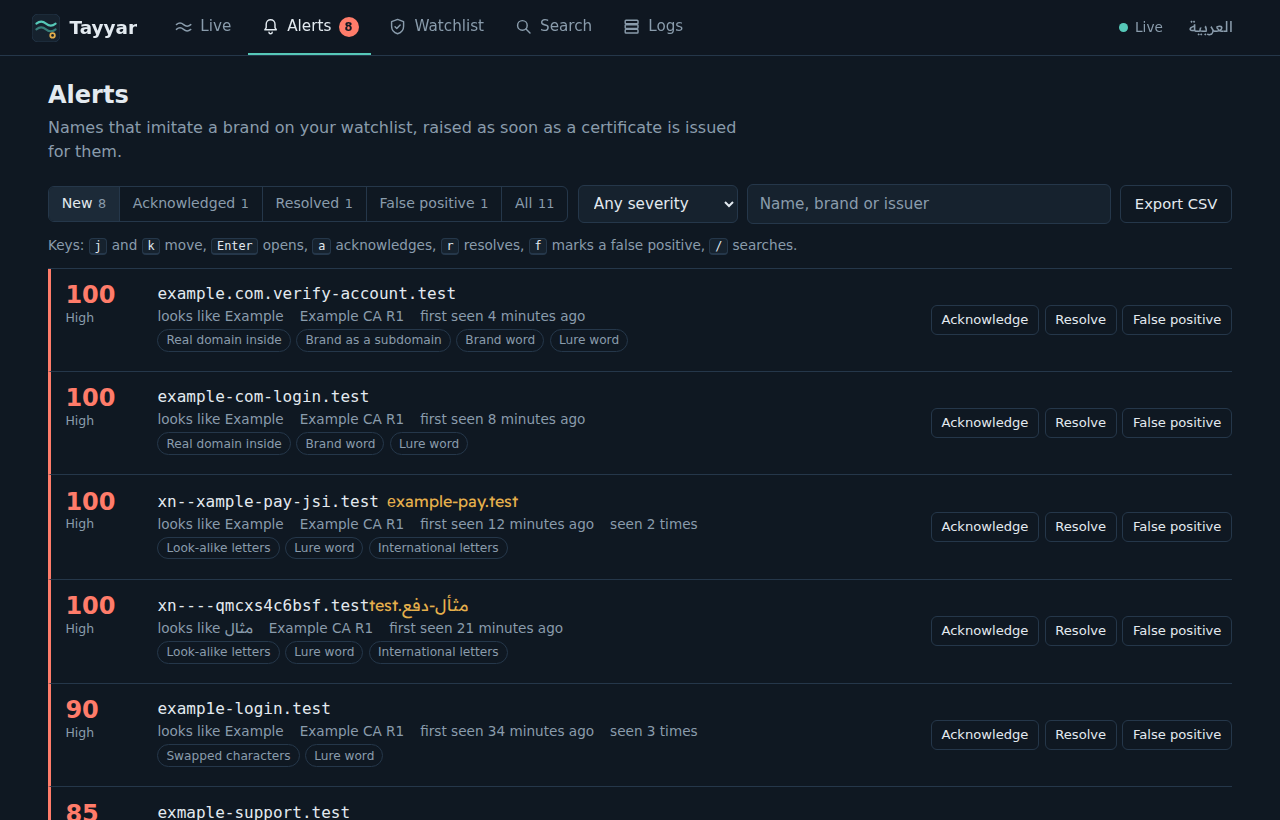
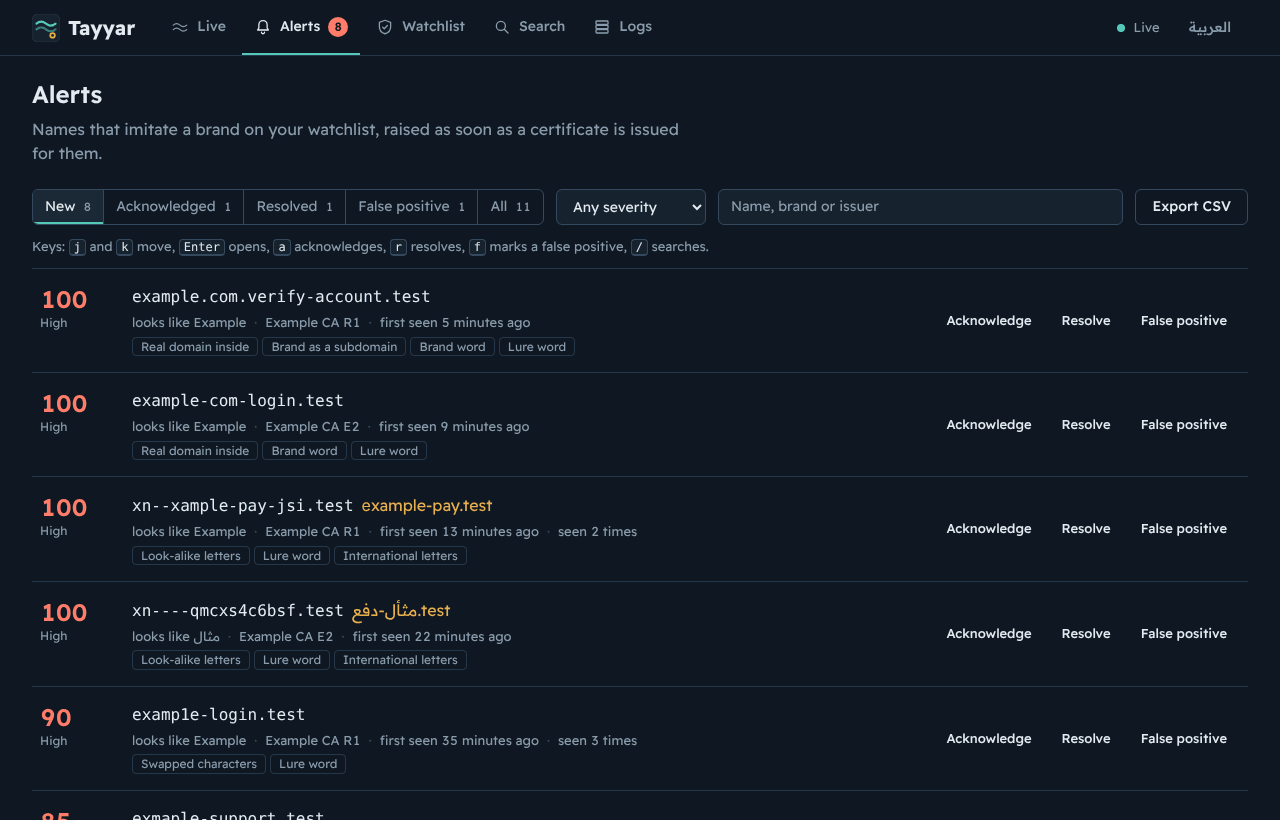
Describe the interface system and retake the screenshots

diff --git a/DESIGN.md b/DESIGN.md
@@ -1,0 +1,327 @@
+---
+name: Tayyar
+description: The interface of a live Certificate Transparency stream and its look-alike alerts, Arabic first with a complete English twin.
+colors:
+  ground: "#0f1822"
+  surface: "#16222e"
+  raise: "#1c2a38"
+  rule: "#25374a"
+  line: "#34495e"
+  ink: "#e3eaf0"
+  muted-ink: "#8a9cac"
+  knob: "#f4f7f9"
+  issued-sea-green: "#56c8b8"
+  precert-amber: "#e6b04c"
+  match-coral: "#ff7c6a"
+  on-accent: "#0f1822"
+  scrim: "rgb(5 9 14 / 0.62)"
+  float-shadow: "rgb(0 0 0 / 0.36)"
+  light-ground: "#f4f6f8"
+  light-surface: "#ffffff"
+  light-raise: "#eef2f5"
+  light-rule: "#d7dfe6"
+  light-line: "#b9c5d0"
+  light-ink: "#13212e"
+  light-muted-ink: "#56687a"
+  light-issued-sea-green: "#087266"
+  light-precert-amber: "#8f5c00"
+  light-match-coral: "#c42d3f"
+  light-on-accent: "#ffffff"
+  light-scrim: "rgb(19 33 46 / 0.32)"
+  light-float-shadow: "rgb(19 33 46 / 0.18)"
+typography:
+  figure:
+    fontFamily: "Readex Pro, system-ui, sans-serif"
+    fontSize: "2rem"
+    fontWeight: 600
+    lineHeight: 1.2
+    letterSpacing: "-0.01em"
+  title:
+    fontFamily: "Readex Pro, system-ui, sans-serif"
+    fontSize: "1.5rem"
+    fontWeight: 600
+    lineHeight: 1.2
+  section:
+    fontFamily: "Readex Pro, system-ui, sans-serif"
+    fontSize: "1rem"
+    fontWeight: 600
+    lineHeight: 1.2
+  body:
+    fontFamily: "Readex Pro, system-ui, sans-serif"
+    fontSize: "1rem"
+    fontWeight: 400
+    lineHeight: 1.5
+  ui:
+    fontFamily: "Readex Pro, system-ui, sans-serif"
+    fontSize: "0.875rem"
+    fontWeight: 400
+    lineHeight: 1.5
+  meta:
+    fontFamily: "Readex Pro, system-ui, sans-serif"
+    fontSize: "0.8125rem"
+    fontWeight: 400
+    lineHeight: 1.45
+  label:
+    fontFamily: "Readex Pro, system-ui, sans-serif"
+    fontSize: "0.75rem"
+    fontWeight: 500
+    lineHeight: 1.45
+  identifier:
+    fontFamily: "ui-monospace, SF Mono, Cascadia Mono, Roboto Mono, Menlo, Consolas, Readex Pro Arabic, monospace"
+    fontSize: "0.875rem"
+    fontWeight: 400
+rounded:
+  mark: "2px"
+  tag: "4px"
+  control: "6px"
+  panel: "8px"
+  pill: "999px"
+spacing:
+  sp-0: "2px"
+  sp-1: "4px"
+  sp-2: "8px"
+  sp-3: "12px"
+  sp-4: "16px"
+  sp-5: "20px"
+  sp-6: "24px"
+  sp-8: "32px"
+  sp-10: "40px"
+  sp-12: "48px"
+components:
+  button:
+    textColor: "{colors.ink}"
+    rounded: "{rounded.control}"
+    padding: "0 16px"
+    height: "36px"
+  button-primary:
+    backgroundColor: "{colors.issued-sea-green}"
+    textColor: "{colors.on-accent}"
+    rounded: "{rounded.control}"
+    padding: "0 16px"
+    height: "36px"
+  button-quiet:
+    textColor: "{colors.ink}"
+    rounded: "{rounded.control}"
+    padding: "0 12px"
+    height: "28px"
+  button-ghost:
+    textColor: "{colors.muted-ink}"
+    rounded: "{rounded.control}"
+    padding: "0 16px"
+    height: "36px"
+  input:
+    backgroundColor: "{colors.surface}"
+    textColor: "{colors.ink}"
+    rounded: "{rounded.control}"
+    padding: "0 12px"
+    height: "36px"
+  segment-selected:
+    backgroundColor: "{colors.raise}"
+    textColor: "{colors.ink}"
+    rounded: "{rounded.control}"
+    padding: "0 12px"
+    height: "34px"
+  tag:
+    textColor: "{colors.muted-ink}"
+    rounded: "{rounded.tag}"
+    padding: "0 8px"
+  badge:
+    backgroundColor: "{colors.match-coral}"
+    textColor: "{colors.on-accent}"
+    rounded: "{rounded.pill}"
+    height: "20px"
+  panel:
+    backgroundColor: "{colors.surface}"
+    rounded: "{rounded.panel}"
+    padding: "20px"
+  toast:
+    backgroundColor: "{colors.ink}"
+    textColor: "{colors.ground}"
+    rounded: "{rounded.panel}"
+    padding: "8px 16px"
+---
+
+# Design System: Tayyar
+
+## Overview
+
+**Creative North Star: "The Current Meter"**
+
+Tayyar (تيّار) means a current, and the interface is the instrument that reads it: a quiet, dark dial face where every figure is exact, every mark means one thing, and nothing moves unless the data or the person moved it. It is an Operate surface for security teams who triage names that imitate their brands, so precision and restraint carry the brand: the wave mark, three colours that each mean one thing, one typeface for both languages, and figures that hold still while they count.
+
+Arabic comes first and reads right to left; English is a complete twin, never a translation layer. Both share Readex Pro, so the two languages speak in one voice, and both carry the same density. The default is dark, for long sessions in a monitoring room; the light theme is complete and follows the system setting. Density is medium to dense: 14px rows on a 4px spacing step, with generous gutters around the bands so the screen stays calm while hundreds of certificates a second pass through it.
+
+The one element only Tayyar has is the evidence ribbon: the name drawn with the brand letters underlined, the look-alike characters tinted and the lure words dotted, so every alert shows why on the name itself.
+
+**Key Characteristics:**
+- Colour goes on data and meaning, not on chrome: sea green for an issued certificate, amber for a precertificate, coral for a match or a high severity alert.
+- Severity is always carried by a word and a position as well as a colour.
+- One typeface for both languages, with digits on one width so live numbers never jump.
+- Flat surfaces separated by 1px rules and one tone step; only things that float carry a shadow.
+- Every value comes from a token; a test fails the build when a size, space, radius, colour or timing is picked by eye.
+- Motion is feedback and continuity only: short, ease-out, interruptible, transform and opacity, and none on keyboard triage.
+
+## Colors
+
+A deep blue-black ground with three meaning colours, each kept to its meaning; everything else is ink, grey and hairlines.
+
+### Primary
+- **Issued Sea Green** (#56c8b8 dark, #087266 light): an issued certificate (the filled dot, the issued share of the split bar), the brand's wave, the one filled primary button per form, the current tab and the selected segment's line, focus rings, links and the brand part of the evidence ribbon.
+
+### Secondary
+- **Precertificate Amber** (#e6b04c dark, #8f5c00 light): a precertificate (the ring mark, the amber share of the split bar), medium severity, the lure words in the ribbon, the Unicode form of an international name, and notes that warn (the regex fallback, a server without a data folder, a lost stream).
+
+### Tertiary
+- **Match Coral** (#ff7c6a dark, #c42d3f light): a name that matches the filter, a high severity score, the new-alerts badge, the look-alike characters in the ribbon, a lost connection's dot and every error line.
+
+### Neutral
+- **Ground** (#0f1822 dark, #f4f6f8 light): the page, the top bar, the bottom bar and the drawer.
+- **Surface** (#16222e dark, #ffffff light): panels, inputs, hovered rows, the selected alert row.
+- **Raise** (#1c2a38 dark, #eef2f5 light): the selected segment, evidence values, loading bars.
+- **Rule** (#25374a dark, #d7dfe6 light): every hairline between rows, bands and panels.
+- **Line** (#34495e dark, #b9c5d0 light): control borders, one step stronger than a rule so a control reads as one.
+- **Ink** (#e3eaf0 dark, #13212e light) and **Muted Ink** (#8a9cac dark, #56687a light): the two text tiers, both at 4.5:1 or more on every surface they sit on.
+- **Knob** (#f4f7f9 dark, #ffffff light): the switch knob, light in both themes.
+
+Tints are mixed from the meaning colours, never picked: a matched stream row carries coral at 6%, look-alike characters coral at 22%, legend swatches coral at 45%, and text selection sea green at 45%.
+
+### Named Rules
+**The Three Meanings Rule.** Sea green, amber and coral each mean what the list above says, in both themes and both languages; a new use must already be that meaning.
+
+**The Never Colour Alone Rule.** A colour is always paired with a shape or a word: the ring and the dot for the certificate types, the severity word under every score, the state word beside every log's dot, a hidden "matches your filter" on every matched row.
+
+## Typography
+
+**Body Font:** Readex Pro (served from `web/fonts`, with system-ui as fallback)
+**Figures:** Readex Pro's digits redrawn on one advance width (`readex-pro-figures.woff2`, the same glyphs centred)
+**Identifier Font:** the platform monospace, with Readex Pro Arabic for Arabic letters inside it
+
+**Character:** one open, even sans for every word in both scripts; the monospace has one job, identifiers (domain names, patterns, fingerprints, endpoints, keys), where telling rn from m and 1 from l is the work.
+
+### Hierarchy
+- **Figure** (600, 2rem, 1.2, tracking -0.01em; 1.5rem on phones): the meter's rate, seen and match counts.
+- **Title** (600, 1.5rem, 1.2): one per view, a noun ("Alerts", "Watchlist", "How it works"); also the alert score.
+- **Section** (600, 1rem, 1.2): panel titles, the drawer title, "Last hour", "Logs".
+- **Stage figure** (600, 1.25rem, 1.2): the How it works counts and the evidence ribbon.
+- **Body** (400, 1rem, 1.5 in English and 1.7 in Arabic): ledes under titles, at most 42rem wide.
+- **UI** (400, 0.875rem, 1.5): rows, controls, table cells, field labels (500).
+- **Meta** (400, 0.8125rem, 1.45): issuer, log, times, notes, hints, the footer.
+- **Label** (500, 0.75rem, 1.45): column heads, drawer section heads, tags, keys, legends, the badge, phone tab labels. Nothing is smaller.
+
+Seven sizes (12, 13, 14, 16, 20, 24, 32px) and four weights (400 body, 500 labels, 600 headings and figures, 700 for the wordmark only). Headings balance their lines; paragraphs avoid a lone last word.
+
+### Named Rules
+**The One Voice Rule.** Arabic and English are set in the same family at the same sizes; Arabic only gets more line height.
+
+**The Steady Figures Rule.** Every digit comes from the figures face, so counters, clocks and table columns never shift as they update; `tabular-nums` is declared as well, for any fallback face.
+
+## Layout
+
+The shell is a top bar (56px) over a single centred canvas up to 80rem wide, with a gutter that grows from 16px to 32px with the window. Each view opens with its title and one grey sentence, then its controls, then its content; there is no hero and no greeting.
+
+Space follows a 4px step (2, 4, 8, 12, 16, 20, 24, 32, 40, 48px): tight inside a group (4 to 8px), 12 to 16px between controls, 24px under a title, 32 to 40px between bands. Controls are 36px tall, 44px on touch screens; small row actions 28px, 40px on touch. Column widths are tokens too: the stream's time (4.75rem), issuer (13rem) and log (12rem) columns, the alert score (4.5rem), the insights rail (16rem), the form rail (24rem) and the drawer (32rem).
+
+Two breakpoints, written as literals because media queries cannot read tokens:
+- **Up to 64rem (tablet and phone):** the tabs move to a bar at the bottom; grids become one column; stream and search rows become two lines (name, then time, issuer and log); alert actions move under their content; How it works becomes a list; the logs table becomes two-line rows with each figure named.
+- **Up to 40rem (phone):** the meter becomes two by two, the filter takes its own row, the stream shows its newest 40 rows, alert actions run across the full row, and the alert toolbar packs severity and export into one row. The phone is the first impression: the first stream row starts in the top 60% of the screen.
+
+Sticky column heads stay under the top bar while long lists scroll. The page never scrolls sideways; a segmented control too wide for a phone scrolls inside itself.
+
+## Elevation & Depth
+
+The system is flat. Depth is a tone step (ground, surface, raise) and a 1px rule, never both a border and a shadow on one thing. Panels and the drawer have a border and no shadow; the drawer sits over the Scrim colour. Only the toast floats, with one soft shadow in the Float Shadow colour.
+
+### Shadow Vocabulary
+- **Float** (`box-shadow: 0 8px 24px` in Float Shadow): the toast only.
+
+### Named Rules
+**The Flat Instrument Rule.** Nothing at rest casts a shadow, nothing glows, nothing is blurred; a selected or current thing gets a 2px sea green line or a tone step.
+
+## Shapes
+
+Tight corners, chosen once: 2px for marks inside text (look-alike tints, legend swatches), 4px for tags, keys and code, 6px for controls and the evidence ribbon, 8px for panels and the toast, and full pills only for the badge, the switch and the dots. Lines are 1px rules; 2px strokes are kept for focus rings, selection lines, the ring of a precertificate and the evidence underlines. No coloured side stripes: a matched row is tinted and a high alert carries its colour on its score.
+
+## Components
+
+### Navigation
+- **Top bar:** the wave mark and wordmark (20px, 700) at the start, the five tabs, then the connection status, the language switch and sign out at the end. Opaque ground, one rule underneath.
+- **Tabs:** 14px, 500, muted with an 18px outline icon; the current tab is ink with a 2px sea green line on the bar's edge. The alerts tab carries a coral count badge.
+- **Bottom bar (64rem and below):** the same five tabs as icon over 12px label, the current one marked by a 2px line on its top edge; safe areas respected.
+- **Connection status:** a dot and a word; coral and ink when lost. On a phone the word is visually hidden while live and shown otherwise.
+
+### Buttons
+- **Shape:** 6px corners, 36px tall (44px on touch), 14px 500 labels.
+- **Default:** transparent with a Line border; hover fills Surface.
+- **Primary:** Sea Green fill with on-accent text, 600; one per form ("Save", "Sign in", "Open the watchlist").
+- **Quiet:** borderless ink text, for actions repeated on every row (triage, edit, delete).
+- **Ghost:** borderless muted text, for the shell (language, sign out, cancel).
+- **Pressed (aria-pressed):** Raise fill, as on Pause.
+- **Press feedback:** scale to 0.97 in 120ms on press; disabled controls drop to 60% opacity and never scale.
+
+### Inputs and Fields
+- **Style:** Surface fill (Ground inside a panel), Line border, 6px corners, 36px tall; identifiers typed in monospace, placeholders in the sans.
+- **Label:** above the field, 14px 500, 8px gap; hints in 13px Muted Ink; errors in coral 13px.
+- **Focus:** a 2px Sea Green ring, 2px out, on every focusable thing.
+
+### Switch, segments and tags
+- **Switch:** a 32 by 18px pill with a light knob; on is Sea Green, or Coral for "Matches only"; the hit area is 16px larger than the pill.
+- **Segmented control:** one Line-bordered group; the selected segment gets Raise, ink text and a 2px Sea Green line at its foot; counts sit inside in 12px.
+- **Tags:** 4px corners, Rule border, 12px Muted Ink, never squeezed; the "New" status tag is Sea Green.
+
+### Type marks (signature)
+A 10px ring in Amber for a precertificate and a 10px dot in Sea Green for an issued certificate. The same mark appears in the stream, the meter's legend, the search filter and the drawer's type line.
+
+### Meter
+Four figures in one band divided by rules: the rate with a one-minute sparkline (a 1.5px Sea Green line on a hairline baseline, labelled "Last minute"), the count since the page opened, the split bar (8px pill, Amber and Sea Green) with its marked legend, and the match count, which turns Coral when it is above zero.
+
+### Certificate rows
+Time, type mark, name in monospace (the Unicode form follows in the sans, in Amber), issuer and log in Muted Ink, on a 1px rule. A matched row is tinted Coral at 6% with its name in Coral, and a match that has just arrived fades a second tint out over 1.2s; there is no other per-row motion in the stream.
+
+### Alert rows and the score
+A 24px score coloured by severity with its word under it (High, Medium, Low), the domain in 16px monospace, a meta line separated by middle dots, reason tags, and quiet triage actions in a trailing column (under the content from 64rem down). The keyboard cursor is a 2px focus outline on a Surface row. Resolved and false positive rows dim their score and text to 60%, never their actions.
+
+### Evidence ribbon (signature)
+The name in 20px monospace on a panel-coloured strip: brand letters underlined in Sea Green, look-alike characters tinted Coral, lure words dotted in Amber, always left to right as an address bar shows it. A legend lists only the marks used, and each reason follows with its explanation and the evidence line.
+
+### How it works
+Seven stages in one band divided by rules, each with a 20px figure, a label and one muted sentence; a small chevron on each divider points in the reading direction. From 64rem down it is a list with the figure in its own column.
+
+### Drawer
+Opens from the reading end at 32rem wide (full width on phones) over a scrim, with the domain as its title, a close button, and sections divided by rules: why it was flagged, triage, DNS, names, certificate and log entry.
+
+### States
+- **Loading:** the final layout with flat Raise bars where values will be; no shimmer, no spinner, no layout shift when data lands.
+- **Empty:** one sentence in the kept frame, with the next action when there is one ("Open the watchlist").
+- **Nothing matched:** the filter stays, the empty line says every certificate is still checked.
+- **Error:** one line inside the failed view, a Coral dot, what happened and "Try again"; what was loaded stays on screen.
+- **Connection lost:** the status turns Coral and ink, and the Live view says the stream stops until it is back.
+- **Paused:** Pause shows pressed, and a note says certificates are counted but not listed.
+- **Signed out:** the sign-in panel over the Ground, with its own language switch.
+
+### Motion
+- **Grammar:** one curve family and four durations: press 120ms, small state changes 160ms, entrances and exits 200ms, the drawer 280ms; ease-out (0.23, 1, 0.32, 1) for entering and leaving, the drawer curve (0.32, 0.72, 0, 1) for the drawer; exits are faster than entrances; transform and opacity only; transitions, not keyframes, for anything that can be triggered twice.
+- **Drawer and scrim:** slide and fade in from the reading end when opened with a pointer; open and close at once when opened from the keyboard, where triage is repeated all day.
+- **Toast:** rises 8px and fades in over 200ms, holds 3.2s, fades out in 160ms; a second message replaces the text without moving.
+- **Arrivals:** a new alert row fades and settles 4px into place with a Coral tint that fades over 1.2s; a new match in the stream fades its tint the same way.
+- **Counts:** the alerts badge gives one 200ms pop when its count grows; figures never animate.
+- **Sign-in:** the overlay fades in over 200ms while its panel rises 8px over 280ms; an error line fades in over 160ms.
+- **How it works:** the first time it is seen, its stages appear in reading order 40ms apart; refreshes never replay it.
+- **Reduced motion:** nothing slides or scales; the drawer and toast fade, arrivals keep only their tint, and How it works appears at once.
+
+## Do's and Don'ts
+
+### Do:
+- **Do** take every size, space, radius, colour, layer and timing from the tokens in `web/app.css`; the test in `test/i18n.test.js` fails on anything else.
+- **Do** pair every meaning colour with a mark or a word, and keep a severity word beside every score.
+- **Do** set domain names, patterns, fingerprints and endpoints in the monospace and everything else in Readex Pro.
+- **Do** keep a domain left to right inside Arabic text, and keep its Unicode form in a span that takes the page's direction so the gap faces the ASCII form.
+- **Do** give every new view its title and lede, its loading bars, its empty sentence and its error line before it ships.
+- **Do** check every change at 390px first, then 768px and 1280px, in both languages and both themes.
+
+### Don't:
+- **Don't** use a coloured side stripe, a gradient, a glow, a blur or an icon in a tinted square.
+- **Don't** add a shadow to anything at rest, or a border and a shadow to the same thing.
+- **Don't** use Sea Green, Amber or Coral for decoration or for a meaning outside their own.
+- **Don't** animate figures, keyboard actions or the live stream's rows beyond the one tint on a new match.
+- **Don't** set text under 12px, or a figure above 32px.
+- **Don't** show a real brand or a real third-party domain on an alert, watchlist or example screen; use example.com, example.net, names ending in .test, or مثال.
